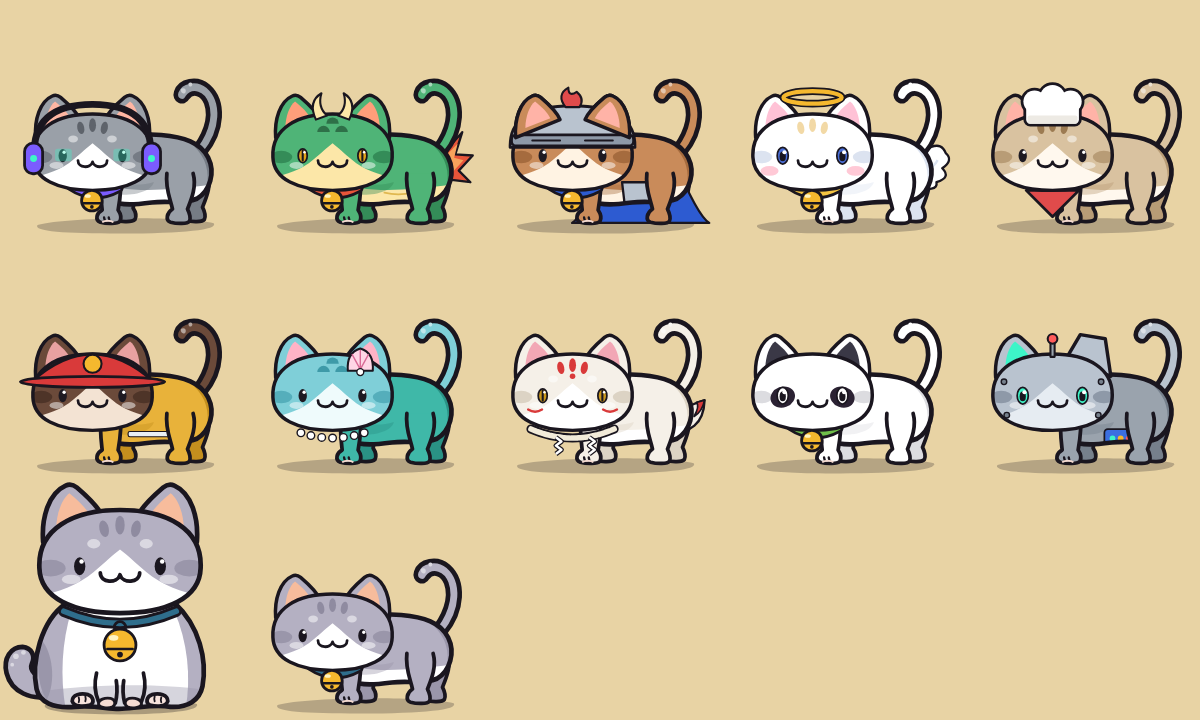
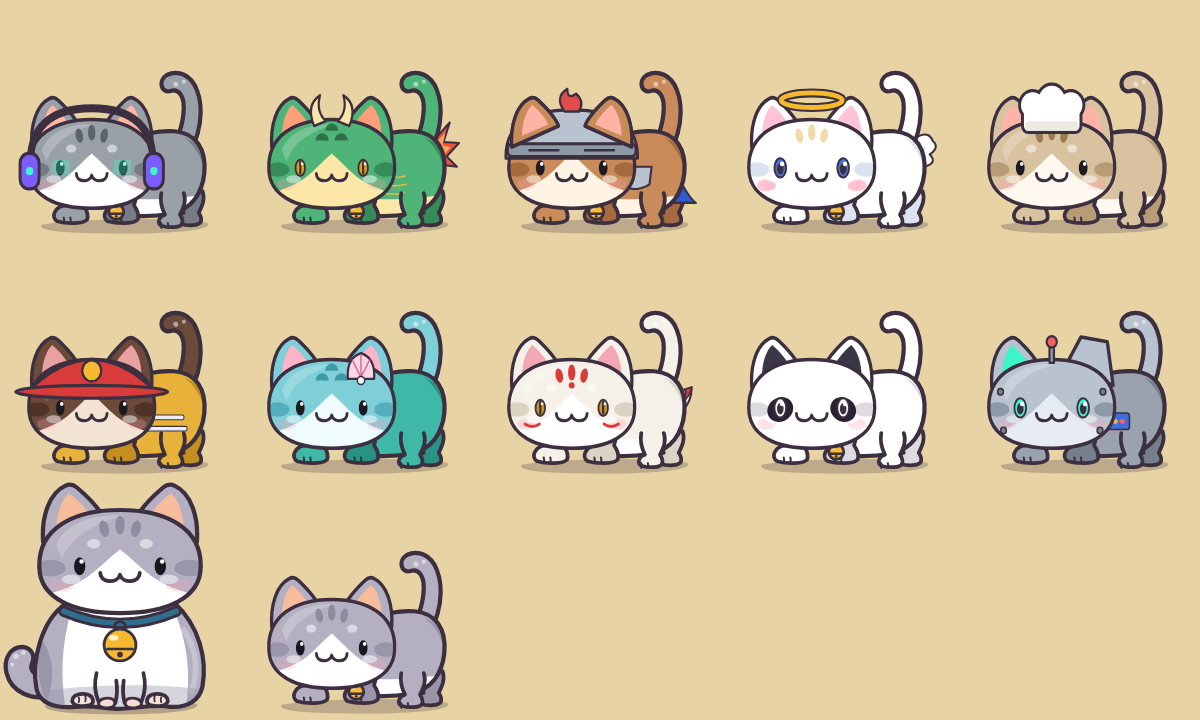
Make walking pose closer to the reference: crouched chibi trot
Big head low at the front, mitten paws peeking under the chin, short
round body behind, stubby back legs and a tall thick tail. Neck items are
hidden while walking (chest is behind the head).

Claude-Session: https://claude.ai/code/session_01DiuTr3FmZvpZGRHY7Z9UJZ

diff --git a/cats.js b/cats.js
@@ -362,42 +362,41 @@ const CATS = [
     } },
 ];
 
-const LEG_F = 'M-10 -4 C-12 10 -10 24 -9 33 C-15 36 -17 44 -11 46 C-4 48 7 48 10 45 C12 41 10 36 8 33 C10 22 12 8 10 -4';
-const LEG_B = 'M-14 -6 C-16 10 -10 22 -8 32 C-14 36 -16 44 -10 46 C-3 48 8 48 10 45 C12 41 10 36 8 32 C12 22 18 8 14 -6';
-const TORSO = 'M112 158 C126 146 150 142 172 144 C196 146 214 152 222 168 C230 184 224 204 210 212 C196 218 178 214 162 216 C146 218 130 220 118 214 C104 206 100 176 112 158 Z';
-const WTAIL = 'M218 164 C238 140 240 108 222 92 C210 82 192 86 188 98 C185 107 196 112 200 104 C206 96 216 100 220 110 C226 126 218 146 204 162 Z';
+// Walking pose (crouched chibi trot, facing left): big v2 head low at the front, short round body behind it,
+// stubby legs with mitten paws, thick raised tail. Held items, neck items and ground props are hidden.
+const LEG_F = 'M-10 -4 C-11 6 -10 10 -10 13 C-22 14 -26 26 -19 30 C-9 33 10 33 13 28 C15 22 11 16 9 13 C11 8 11 2 10 -4';
+const LEG_B = 'M-12 -6 C-14 6 -10 13 -8 17 C-15 19 -17 27 -11 29 C-4 31 8 31 10 27 C12 23 10 20 8 17 C12 9 15 2 12 -6';
+const TORSO = 'M118 170 C128 150 158 138 186 140 C210 142 220 160 218 184 C216 206 204 224 182 228 C158 232 130 232 114 222 C102 212 106 186 118 170 Z';
+const WTAIL = 'M198 168 C214 148 218 116 210 96 C204 80 190 74 178 80 C168 86 172 100 182 97 C190 94 196 102 196 114 C196 134 188 152 180 162 Z';
 const TORSO_ITEMS = new Set(['gato-sushi', 'gato-zombi', 'gato-astronauta', 'gato-dragon', 'gato-bombero', 'gato-detective', 'gato-calabaza', 'gato-robot', 'gato-rayo', 'gato-caballero']);
-// Walking pose (side view, facing left): v2 head on top of an animated 4-legged body. Held items and ground props are hidden.
 function buildWalk(c, uid = '') {
   const L = buildCat(c, uid), id = c.id + uid, p = c.colors, a = c.acc || {}, light = mix(p.fur, '#FFFFFF', .5);
   const A = k => sh((c.shift || {})[k], a[k]) || a[k] || '';
   const near = c.bodyFill || p.fur, far = c.bodyShade || p.shade;
-  const leg = (cls, x, y, d, fill, front) => `<g transform="translate(${x} ${y})"><g class="w-leg ${cls}"><path d="${d}Z" fill="${fill}"/><path d="${d}" fill="none" stroke="${O}" stroke-width="4" stroke-linecap="round" stroke-linejoin="round"/>` +
-    (front ? `<path d="M-7 41 l1 4 M-2 41 l1 5" stroke="${O}" stroke-width="2.5" stroke-linecap="round"/><path d="M-9 46 c3 -2 9 -2 12 0" stroke="#F6DCD3" stroke-width="2" fill="none"/>` : '') + '</g></g>';
-  const torsoItems = TORSO_ITEMS.has(c.id);
+  const leg = (cls, x, y, d, fill, toes) => `<g transform="translate(${x} ${y})"><g class="w-leg ${cls}"><path d="${d}Z" fill="${fill}"/><path d="${d}" fill="none" stroke="${O}" stroke-width="4" stroke-linecap="round" stroke-linejoin="round"/>` +
+    (toes ? `<path d="M-12 26 q1 3 0 5 M-5 26 q1 3 0 5" stroke="${O}" stroke-width="2.2" fill="none" stroke-linecap="round"/>` : '') + '</g></g>';
   return `<defs><clipPath id="${id}-tc"><path d="${TORSO}"/></clipPath></defs>
-    <g transform="translate(128 240)"><g class="w-shadow"><path transform="translate(-128 -240)" d="M40 240 C70 232 190 230 228 238 C233 245 196 249 128 249 C70 249 35 247 40 240 Z" fill="${O}" opacity=".25"/></g></g>
-    ${leg('w-fb', 208, 189, LEG_B, far)}${leg('w-ff', 134, 189, LEG_F, far)}
+    <g transform="translate(130 240)"><g class="w-shadow"><path transform="translate(-130 -240)" d="M44 240 C74 233 190 231 222 238 C226 245 192 249 130 249 C74 249 40 247 44 240 Z" fill="${O}" opacity=".25"/></g></g>
+    ${leg('w-fb', 204, 210, LEG_B, far)}
     <g class="w-body">
-      <g transform="translate(92 84) scale(.62)">${A('back')}</g>
-      <g transform="translate(210 162)"><g class="w-tail"><g transform="translate(-210 -162)"><path d="${WTAIL}" ${st(p.fur, 4.5)}/>
-        <g fill="${light}"><path d="M193 95 c3 -2 6 0 5 3 c-1 3 -6 2 -5 -3z"/><path d="M201 89 c2 -2 5 -1 4 2 c-1 2 -4 2 -4 -2z"/></g></g></g></g>
+      <g transform="translate(95 80) scale(.55)">${A('back')}</g>
+      <g transform="translate(194 162)"><g class="w-tail"><g transform="translate(-194 -162)"><path d="${WTAIL}" ${st(p.fur, 4.5)}/>
+        <g fill="${light}"><path d="M185 88 c3 -2 6 0 5 3 c-1 3 -6 2 -5 -3z"/><path d="M194 86 c2 -2 5 -1 4 2 c-1 2 -4 2 -4 -2z"/></g></g></g></g>
       <path d="${TORSO}" fill="${near}"/>
       <g clip-path="url(#${id}-tc)">
-        ${c.bodyFill ? '' : `<path d="M100 194 C126 204 168 206 232 196 L232 232 L100 232 Z" fill="${p.belly}"/>`}
-        <path d="M196 148 C222 156 234 184 216 212 C228 186 220 162 196 148 Z" fill="${far}"/>
-        <path d="M108 186 C124 196 146 200 164 194 C162 206 132 212 110 204 Z" fill="${far}" opacity=".4"/>
-        ${torsoItems ? `<g transform="translate(92 84) scale(.62)">${A('body')}${A('bodyTop')}</g>` : ''}
+        ${c.bodyFill ? '' : `<path d="M104 204 C130 214 170 216 226 206 L226 236 L104 236 Z" fill="${p.belly}"/>`}
+        <path d="M196 146 C222 156 230 186 212 216 C224 188 218 164 196 146 Z" fill="${far}"/>
+        ${TORSO_ITEMS.has(c.id) ? `<g transform="translate(95 80) scale(.55)">${A('body')}${A('bodyTop')}</g>` : ''}
       </g>
       <path d="${TORSO}" fill="none" stroke="${O}" stroke-width="4.5" stroke-linejoin="round"/>
     </g>
-    ${leg('w-nb', 192, 191, LEG_B, near)}${leg('w-nf', 118, 191, LEG_F, near, true)}
+    ${leg('w-nb', 184, 212, LEG_B, near, true)}
+    ${leg('w-ff', 134, 206, LEG_F, far, true)}${leg('w-nf', 80, 206, LEG_F, near, true)}
     <g class="w-body">
-      ${c.collar === false ? '' : `<path d="M76 198 Q100 214 126 200" stroke="${O}" stroke-width="12" fill="none" stroke-linecap="round"/><path d="M76 198 Q100 214 126 200" stroke="${p.accent}" stroke-width="6" fill="none" stroke-linecap="round"/>`}
-      ${torsoItems ? '' : `<g transform="translate(4 98) scale(.74)">${A('body')}${A('bodyTop')}</g>`}
-      <g transform="translate(98 200)"><g class="w-head"><g transform="translate(-94 -102) scale(.74)">${L.head}${L.face}</g></g></g>
-      ${c.collar === false ? '' : bell(98, 214, 11)}
-    </g>`;
+      ${c.collar === false ? '' : bell(124, 226, 8)}
+      <g transform="translate(98 222)"><g class="w-head"><g transform="translate(-100 -122) scale(.78 .86)">${L.head}${L.face}</g></g></g>
+    </g>
+`;
 }
 
 if (typeof module !== 'undefined') module.exports = { CATS, buildCat, buildWalk };
